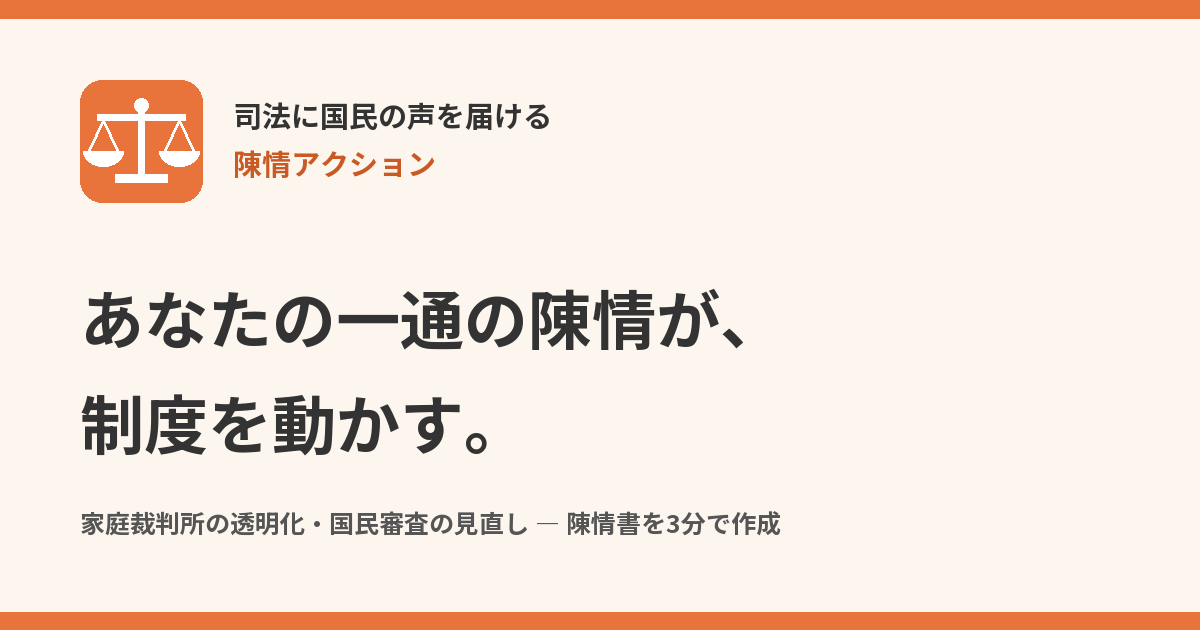
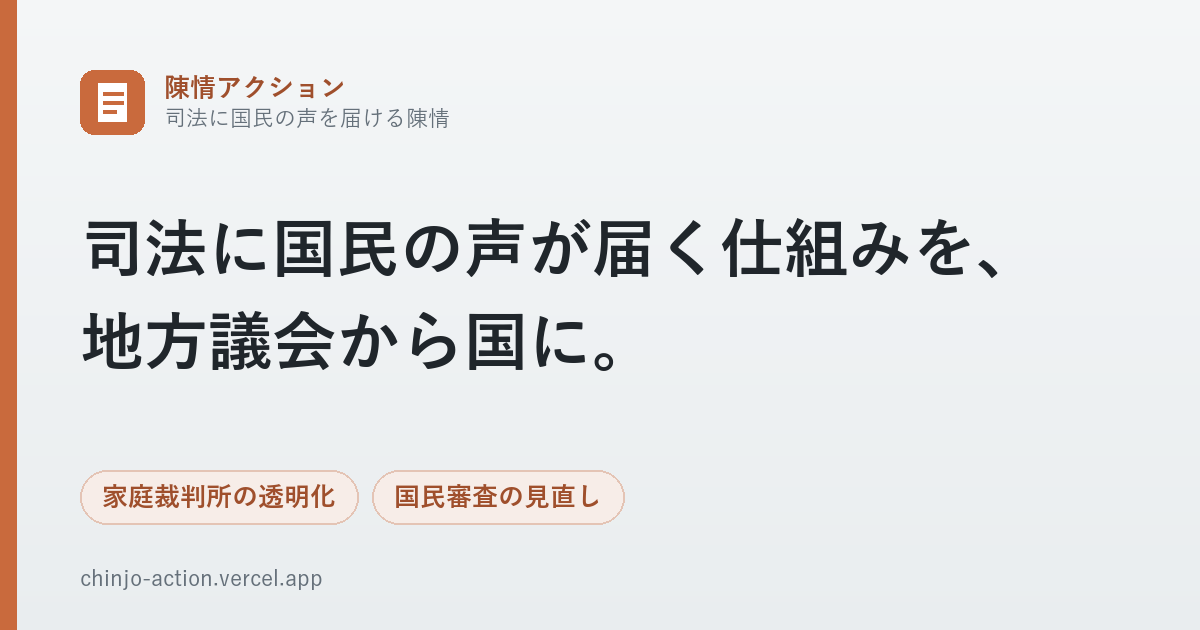
リンクカードの画像と説明文を今のサイトに合わせる
- 画像をサイトの配色・各テーマの見出しに合わせて作り直し、なかった kenko・sonota の画像を加える（scripts/og-images.py）
- shiho・sonota の作成・宛名ラベルのページのサイト名をテーマのページとそろえる
- トップの説明文を6つのテーマと要望書・手紙に合わせる

diff --git a/shiho/make.html b/shiho/make.html
@@ -3,10 +3,10 @@
 <head>
 <meta charset="UTF-8">
 <meta name="viewport" content="width=device-width, initial-scale=1">
-<title>陳情書をつくる｜司法への参加を守る陳情アクション</title>
+<title>陳情書をつくる｜司法に国民の声を届ける陳情アクション</title>
 <meta name="description" content="選択肢を押していくだけで、議会に出せる陳情書ができます。">
 <link rel="canonical" href="https://chinjo-action.vercel.app/shiho/make">
-<meta property="og:site_name" content="司法への参加を守る陳情アクション">
+<meta property="og:site_name" content="司法に国民の声を届ける陳情アクション">
 <meta property="og:title" content="陳情書をつくる">
 <meta property="og:description" content="選択肢を押していくだけで、議会に出せる陳情書ができます。">
 <meta property="og:type" content="article">
@@ -14,7 +14,7 @@
 <meta property="og:image" content="https://chinjo-action.vercel.app/themes/shiho/og-image.png">
 <meta property="og:image:width" content="1200">
 <meta property="og:image:height" content="630">
-<meta property="og:image:alt" content="司法への参加を守る陳情アクション ― あなたの一通の陳情が、制度を動かす。">
+<meta property="og:image:alt" content="司法に国民の声を届ける陳情アクション ― 司法に国民の声が届く仕組みを、地方議会から国に。">
 <meta property="og:locale" content="ja_JP">
 <meta name="twitter:card" content="summary_large_image">
 <link rel="icon" href="/favicon.svg" type="image/svg+xml">
@@ -298,7 +298,7 @@
 
 <footer class="site-footer">
   <div class="wrap">
-    <p>司法への参加を守る陳情アクション</p>
+    <p>司法に国民の声を届ける陳情アクション</p>
     <p class="small"><a href="/shiho">トップページ</a>　｜　<a href="/shiho/guide">陳情の出し方ガイド</a></p>
     <p class="small credit">市区町村の一覧：<a href="https://github.com/geolonia/japanese-addresses" target="_blank" rel="noopener">Geolonia 住所データ</a>（<a href="https://creativecommons.org/licenses/by/4.0/deed.ja" target="_blank" rel="noopener">CC BY 4.0</a>）を加工して作成。最寄り駅：<a href="https://nlftp.mlit.go.jp/ksj/" target="_blank" rel="noopener">国土数値情報</a>（鉄道データ）（国土交通省）を加工して作成。位置：<a href="https://maps.gsi.go.jp/" target="_blank" rel="noopener">地理院地図</a>の住所検索</p></div>
 </footer>

diff --git a/sonota/make.html b/sonota/make.html
@@ -3,10 +3,10 @@
 <head>
 <meta charset="UTF-8">
 <meta name="viewport" content="width=device-width, initial-scale=1">
-<title>陳情書をつくる｜その他の陳情を守る陳情アクション</title>
+<title>陳情書をつくる｜税の公平と教育を守る陳情アクション</title>
 <meta name="description" content="選択肢を押していくだけで、議会に出せる陳情書ができます。">
 <link rel="canonical" href="https://chinjo-action.vercel.app/sonota/make">
-<meta property="og:site_name" content="その他の陳情を守る陳情アクション">
+<meta property="og:site_name" content="税の公平と教育を守る陳情アクション">
 <meta property="og:title" content="陳情書をつくる">
 <meta property="og:description" content="選択肢を押していくだけで、議会に出せる陳情書ができます。">
 <meta property="og:type" content="article">
@@ -14,7 +14,7 @@
 <meta property="og:image" content="https://chinjo-action.vercel.app/themes/sonota/og-image.png">
 <meta property="og:image:width" content="1200">
 <meta property="og:image:height" content="630">
-<meta property="og:image:alt" content="その他の陳情を守る陳情アクション ― あなたの一通の陳情が、制度を動かす。">
+<meta property="og:image:alt" content="税の公平と教育を守る陳情アクション ― 税の公平と、公立の学校を守る施策を、地方議会に。">
 <meta property="og:locale" content="ja_JP">
 <meta name="twitter:card" content="summary_large_image">
 <link rel="icon" href="/favicon.svg" type="image/svg+xml">
@@ -298,7 +298,7 @@
 
 <footer class="site-footer">
   <div class="wrap">
-    <p>その他の陳情を守る陳情アクション</p>
+    <p>税の公平と教育を守る陳情アクション</p>
     <p class="small"><a href="/sonota">トップページ</a>　｜　<a href="/sonota/guide">陳情の出し方ガイド</a></p>
     <p class="small credit">市区町村の一覧：<a href="https://github.com/geolonia/japanese-addresses" target="_blank" rel="noopener">Geolonia 住所データ</a>（<a href="https://creativecommons.org/licenses/by/4.0/deed.ja" target="_blank" rel="noopener">CC BY 4.0</a>）を加工して作成。最寄り駅：<a href="https://nlftp.mlit.go.jp/ksj/" target="_blank" rel="noopener">国土数値情報</a>（鉄道データ）（国土交通省）を加工して作成。位置：<a href="https://maps.gsi.go.jp/" target="_blank" rel="noopener">地理院地図</a>の住所検索</p></div>
 </footer>

diff --git a/scripts/pages.js b/scripts/pages.js
@@ -7,13 +7,14 @@ const path = require('path');
 
 const ROOT = path.join(__dirname, '..');
 const THEMES = [
+  // ogAlt：リンクカードの画像（themes/<id>/og-image.png、scripts/og-images.py で作る）の大見出し
   // letter：かんたん作成のできあがりの画面に出す、議員への手紙（トップページにある）への案内
-  { id: 'kodomo', label: '子どもの権利', letter: true },
-  { id: 'dansei', label: '男女平等', site: '男女平等を求める陳情アクション' },
-  { id: 'nihonjin', label: '日本人の権利' },
-  { id: 'shiho', label: '司法への参加' },
-  { id: 'kenko', label: '国民の健康' },
-  { id: 'sonota', label: 'その他の陳情' },
+  { id: 'kodomo', label: '子どもの権利', site: '子どもの権利を守る陳情アクション', ogAlt: '子どもが両方の親と関わり続けられる制度を、地方議会に。', letter: true },
+  { id: 'dansei', label: '男女平等', site: '男女平等を求める陳情アクション', ogAlt: '性別にかかわらず相談先と避難先がある制度を、地方議会に。' },
+  { id: 'nihonjin', label: '日本人の権利', ogAlt: '税と社会保障のルールの見直しを、地方議会に。' },
+  { id: 'shiho', label: '司法への参加', site: '司法に国民の声を届ける陳情アクション', ogAlt: '司法に国民の声が届く仕組みを、地方議会から国に。' },
+  { id: 'kenko', label: '国民の健康', ogAlt: '病気を防ぎ、早く見つける施策を、地方議会に。' },
+  { id: 'sonota', label: 'その他の陳情', site: '税の公平と教育を守る陳情アクション', ogAlt: '税の公平と、公立の学校を守る施策を、地方議会に。' },
 ];
 const PAGES = ['labels', 'make'];
 
@@ -36,6 +37,7 @@ function render(page, theme) {
     .replaceAll('{{id}}', theme.id)
     .replaceAll('{{site}}', theme.site ?? `${theme.label}を守る陳情アクション`)
     .replaceAll('{{label}}', theme.label)
+    .replaceAll('{{ogAlt}}', theme.ogAlt)
     .replace('{{letterLink}}', theme.letter ? `          <li><b>議員に手紙を出す：</b>陳情書に書けない事情は、公開されない手紙で伝えます。紹介議員のお願いにもなります。<a href="/${theme.id}#letter">議員への手紙をつくる</a></li>
 ` : '');
 }

diff --git a/index.html b/index.html
@@ -4,17 +4,17 @@
 <meta charset="UTF-8">
 <meta name="viewport" content="width=device-width, initial-scale=1">
 <title>権利を守る陳情アクション｜地方議会への陳情書をつくる</title>
-<meta name="description" content="地方議会への陳情・請願を、誰でも簡単に作成・提出できるサイトです。子どもの権利・男女平等・日本人の権利などの陳情を選べます。">
+<meta name="description" content="地方議会への陳情・請願を、誰でも簡単に作成・提出できるサイトです。子どもの権利・男女平等・日本人の権利・司法・健康・税と教育の陳情を選べます。">
 <link rel="canonical" href="https://chinjo-action.vercel.app/">
 <meta property="og:site_name" content="権利を守る陳情アクション">
 <meta property="og:title" content="権利を守る陳情アクション">
-<meta property="og:description" content="テーマを選び、作成画面で選択肢を選んで、地方議会への陳情書をつくれます。">
+<meta property="og:description" content="子ども・男女平等・日本人の権利・司法・健康・税と教育の6つのテーマから、地方議会への陳情書・要望書や議員への手紙を、選択肢を選んでつくれます。">
 <meta property="og:type" content="website">
 <meta property="og:url" content="https://chinjo-action.vercel.app/">
 <meta property="og:image" content="https://chinjo-action.vercel.app/og-image.png">
 <meta property="og:image:width" content="1200">
 <meta property="og:image:height" content="630">
-<meta property="og:image:alt" content="権利を守る陳情アクション ― 地方議会に、あなたの意見を正式に届ける。">
+<meta property="og:image:alt" content="権利を守る陳情アクション ― 地方議会に、意見を正式な手続きで届ける。">
 <meta property="og:locale" content="ja_JP">
 <meta name="twitter:card" content="summary_large_image">
 <link rel="icon" href="/favicon.svg" type="image/svg+xml">

diff --git a/shiho/labels.html b/shiho/labels.html
@@ -3,10 +3,10 @@
 <head>
 <meta charset="UTF-8">
 <meta name="viewport" content="width=device-width, initial-scale=1">
-<title>郵送用の宛名ラベル｜司法への参加を守る陳情アクション</title>
+<title>郵送用の宛名ラベル｜司法に国民の声を届ける陳情アクション</title>
 <meta name="description" content="陳情書を郵送するための議会あて宛名ラベルを印刷できます。">
 <link rel="canonical" href="https://chinjo-action.vercel.app/shiho/labels">
-<meta property="og:site_name" content="司法への参加を守る陳情アクション">
+<meta property="og:site_name" content="司法に国民の声を届ける陳情アクション">
 <meta property="og:title" content="郵送用の宛名ラベル">
 <meta property="og:description" content="陳情書を郵送するための議会あて宛名ラベルを印刷できます。">
 <meta property="og:type" content="article">
@@ -14,7 +14,7 @@
 <meta property="og:image" content="https://chinjo-action.vercel.app/themes/shiho/og-image.png">
 <meta property="og:image:width" content="1200">
 <meta property="og:image:height" content="630">
-<meta property="og:image:alt" content="司法への参加を守る陳情アクション ― あなたの一通の陳情が、制度を動かす。">
+<meta property="og:image:alt" content="司法に国民の声を届ける陳情アクション ― 司法に国民の声が届く仕組みを、地方議会から国に。">
 <meta property="og:locale" content="ja_JP">
 <meta name="twitter:card" content="summary_large_image">
 <link rel="icon" href="/favicon.svg" type="image/svg+xml">

diff --git a/sonota/labels.html b/sonota/labels.html
@@ -3,10 +3,10 @@
 <head>
 <meta charset="UTF-8">
 <meta name="viewport" content="width=device-width, initial-scale=1">
-<title>郵送用の宛名ラベル｜その他の陳情を守る陳情アクション</title>
+<title>郵送用の宛名ラベル｜税の公平と教育を守る陳情アクション</title>
 <meta name="description" content="陳情書を郵送するための議会あて宛名ラベルを印刷できます。">
 <link rel="canonical" href="https://chinjo-action.vercel.app/sonota/labels">
-<meta property="og:site_name" content="その他の陳情を守る陳情アクション">
+<meta property="og:site_name" content="税の公平と教育を守る陳情アクション">
 <meta property="og:title" content="郵送用の宛名ラベル">
 <meta property="og:description" content="陳情書を郵送するための議会あて宛名ラベルを印刷できます。">
 <meta property="og:type" content="article">
@@ -14,7 +14,7 @@
 <meta property="og:image" content="https://chinjo-action.vercel.app/themes/sonota/og-image.png">
 <meta property="og:image:width" content="1200">
 <meta property="og:image:height" content="630">
-<meta property="og:image:alt" content="その他の陳情を守る陳情アクション ― あなたの一通の陳情が、制度を動かす。">
+<meta property="og:image:alt" content="税の公平と教育を守る陳情アクション ― 税の公平と、公立の学校を守る施策を、地方議会に。">
 <meta property="og:locale" content="ja_JP">
 <meta name="twitter:card" content="summary_large_image">
 <link rel="icon" href="/favicon.svg" type="image/svg+xml">

diff --git a/kodomo/guide.html b/kodomo/guide.html
@@ -14,7 +14,7 @@
 <meta property="og:image" content="https://chinjo-action.vercel.app/themes/kodomo/og-image.png">
 <meta property="og:image:width" content="1200">
 <meta property="og:image:height" content="630">
-<meta property="og:image:alt" content="子どもの権利を守る陳情アクション ― あなたの一通の陳情が、制度を動かす。">
+<meta property="og:image:alt" content="子どもの権利を守る陳情アクション ― 子どもが両方の親と関わり続けられる制度を、地方議会に。">
 <meta property="og:locale" content="ja_JP">
 <meta name="twitter:card" content="summary_large_image">
 <link rel="icon" href="/favicon.svg" type="image/svg+xml">

diff --git a/kodomo/index.html b/kodomo/index.html
@@ -14,7 +14,7 @@
 <meta property="og:image" content="https://chinjo-action.vercel.app/themes/kodomo/og-image.png">
 <meta property="og:image:width" content="1200">
 <meta property="og:image:height" content="630">
-<meta property="og:image:alt" content="子どもの権利を守る陳情アクション ― あなたの一通の陳情が、制度を動かす。">
+<meta property="og:image:alt" content="子どもの権利を守る陳情アクション ― 子どもが両方の親と関わり続けられる制度を、地方議会に。">
 <meta property="og:locale" content="ja_JP">
 <meta name="twitter:card" content="summary_large_image">
 <link rel="icon" href="/favicon.svg" type="image/svg+xml">

diff --git a/kodomo/labels.html b/kodomo/labels.html
@@ -14,7 +14,7 @@
 <meta property="og:image" content="https://chinjo-action.vercel.app/themes/kodomo/og-image.png">
 <meta property="og:image:width" content="1200">
 <meta property="og:image:height" content="630">
-<meta property="og:image:alt" content="子どもの権利を守る陳情アクション ― あなたの一通の陳情が、制度を動かす。">
+<meta property="og:image:alt" content="子どもの権利を守る陳情アクション ― 子どもが両方の親と関わり続けられる制度を、地方議会に。">
 <meta property="og:locale" content="ja_JP">
 <meta name="twitter:card" content="summary_large_image">
 <link rel="icon" href="/favicon.svg" type="image/svg+xml">

diff --git a/kodomo/make.html b/kodomo/make.html
@@ -14,7 +14,7 @@
 <meta property="og:image" content="https://chinjo-action.vercel.app/themes/kodomo/og-image.png">
 <meta property="og:image:width" content="1200">
 <meta property="og:image:height" content="630">
-<meta property="og:image:alt" content="子どもの権利を守る陳情アクション ― あなたの一通の陳情が、制度を動かす。">
+<meta property="og:image:alt" content="子どもの権利を守る陳情アクション ― 子どもが両方の親と関わり続けられる制度を、地方議会に。">
 <meta property="og:locale" content="ja_JP">
 <meta name="twitter:card" content="summary_large_image">
 <link rel="icon" href="/favicon.svg" type="image/svg+xml">

diff --git a/kodomo/refs.html b/kodomo/refs.html
@@ -14,7 +14,7 @@
 <meta property="og:image" content="https://chinjo-action.vercel.app/themes/kodomo/og-image.png">
 <meta property="og:image:width" content="1200">
 <meta property="og:image:height" content="630">
-<meta property="og:image:alt" content="子どもの権利を守る陳情アクション ― あなたの一通の陳情が、制度を動かす。">
+<meta property="og:image:alt" content="子どもの権利を守る陳情アクション ― 子どもが両方の親と関わり続けられる制度を、地方議会に。">
 <meta property="og:locale" content="ja_JP">
 <meta name="twitter:card" content="summary_large_image">
 <link rel="icon" href="/favicon.svg" type="image/svg+xml">

diff --git a/dansei/index.html b/dansei/index.html
@@ -14,7 +14,7 @@
 <meta property="og:image" content="https://chinjo-action.vercel.app/themes/dansei/og-image.png">
 <meta property="og:image:width" content="1200">
 <meta property="og:image:height" content="630">
-<meta property="og:image:alt" content="男女平等を求める陳情アクション ― あなたの一通の陳情が、制度を動かす。">
+<meta property="og:image:alt" content="男女平等を求める陳情アクション ― 性別にかかわらず相談先と避難先がある制度を、地方議会に。">
 <meta property="og:locale" content="ja_JP">
 <meta name="twitter:card" content="summary_large_image">
 <link rel="icon" href="/favicon.svg" type="image/svg+xml">
